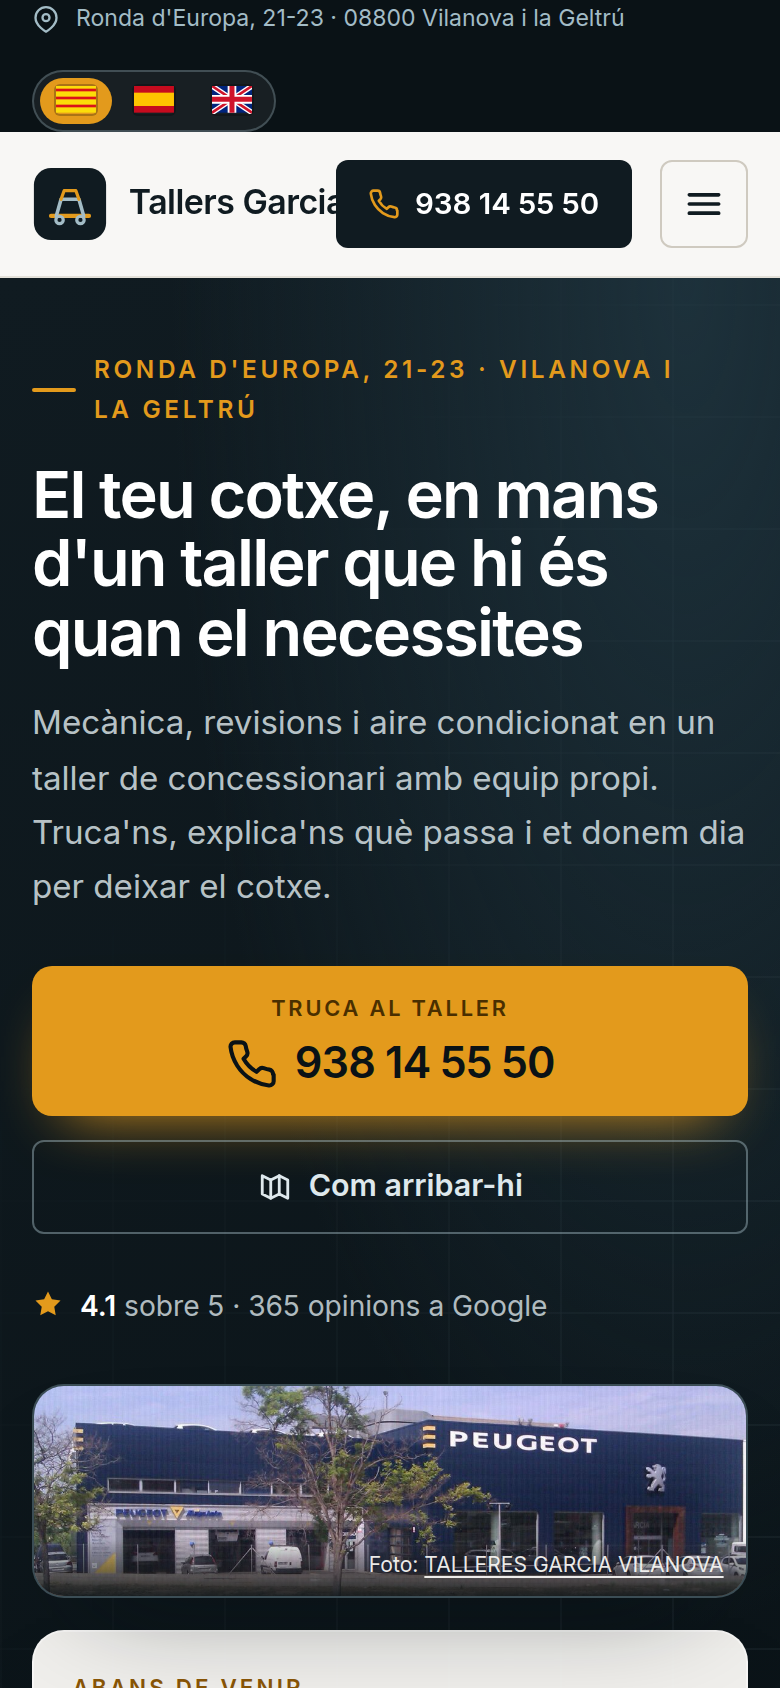
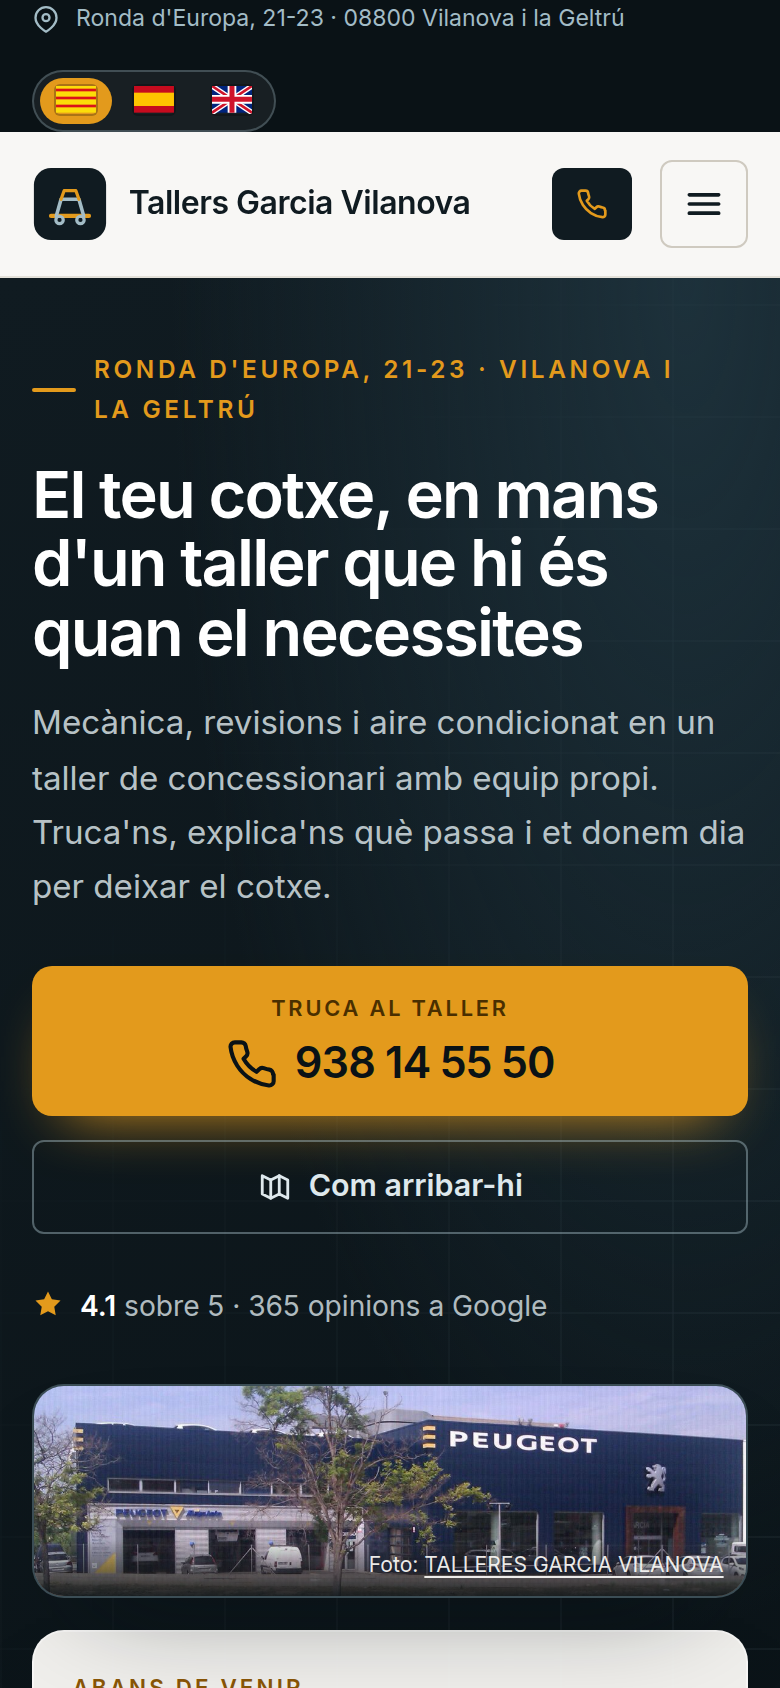
Do not track the node_modules symlink

Changed region(s): [[0.1846, 0.0924, 0.8, 0.154]]

diff --git a/assets/css/styles.css b/assets/css/styles.css
@@ -1099,7 +1099,7 @@ ul, ol { margin: 0; padding: 0; list-style: none; }
 /* ==========================================================================
    Responsive
    ========================================================================== */
-@media (max-width: 1024px) {
+@media (max-width: 1040px) {
   .hero__inner { grid-template-columns: 1fr; padding-block: clamp(2.25rem, 5vw, 3.5rem); }
   .hero__aside { flex-direction: column; }
   .about__grid,
@@ -1107,7 +1107,7 @@ ul, ol { margin: 0; padding: 0; list-style: none; }
   .footer__grid { grid-template-columns: repeat(2, minmax(0, 1fr)); }
 }
 
-@media (max-width: 860px) {
+@media (max-width: 1040px) {
   .nav {
     position: fixed;
     inset: 4.5rem 0 auto;
@@ -1137,16 +1137,13 @@ ul, ol { margin: 0; padding: 0; list-style: none; }
   .langs__flag { width: 20px; height: 14px; }
 }
 
-@media (min-width: 861px) and (max-width: 1000px) {
-  .brand__name { font-size: .98rem; }
-  .nav__link { padding: .45rem .5rem; font-size: .86rem; }
-  .header__call span { display: none; }
-  .header__call { padding: .6rem .7rem; }
-  .langs__code { display: none; }
-}
-
 @media (max-width: 640px) {
   body { font-size: 1rem; }
+  /* the number no longer fits beside the brand: icon stays, the accessible name
+     and the hero's large call button carry the rest */
+  .header__call span { display: none; }
+  .header__call { padding: .62rem .74rem; }
+  .brand__name { font-size: 1rem; }
   .topbar__note { font-size: .72rem; }
   .hero__call { flex-direction: column; align-items: stretch; }
   .hero__phone { align-items: center; text-align: center; }

diff --git a/src/template.html b/src/template.html
@@ -134,7 +134,7 @@
         <li><a class="nav__link" href="#contacte">{{t.nav.contact}}</a></li>
       </ul>
     </nav>
-    <a class="header__call" href="tel:{{business.phoneE164}}">
+    <a class="header__call" href="tel:{{business.phoneE164}}" aria-label="{{t.contact.callCta}}: {{business.phoneNational}}">
       <svg viewBox="0 0 24 24" width="16" height="16" fill="none" stroke="currentColor" stroke-width="2" stroke-linecap="round" stroke-linejoin="round" aria-hidden="true"><path d="M22 16.9v3a2 2 0 0 1-2.2 2 19.8 19.8 0 0 1-8.6-3.1 19.5 19.5 0 0 1-6-6A19.8 19.8 0 0 1 2.1 4.2 2 2 0 0 1 4.1 2h3a2 2 0 0 1 2 1.7c.1.9.4 1.8.7 2.6a2 2 0 0 1-.5 2.1L8.1 9.6a16 16 0 0 0 6 6l1.2-1.2a2 2 0 0 1 2.1-.5c.8.3 1.7.6 2.6.7a2 2 0 0 1 1.7 2.1Z"/></svg>
       <span>{{business.phoneNational}}</span>
     </a>

diff --git a/en/index.html b/en/index.html
@@ -182,7 +182,7 @@
         <li><a class="nav__link" href="#contacte">Contact</a></li>
       </ul>
     </nav>
-    <a class="header__call" href="tel:+34938145550">
+    <a class="header__call" href="tel:+34938145550" aria-label="Call the workshop: 938 14 55 50">
       <svg viewBox="0 0 24 24" width="16" height="16" fill="none" stroke="currentColor" stroke-width="2" stroke-linecap="round" stroke-linejoin="round" aria-hidden="true"><path d="M22 16.9v3a2 2 0 0 1-2.2 2 19.8 19.8 0 0 1-8.6-3.1 19.5 19.5 0 0 1-6-6A19.8 19.8 0 0 1 2.1 4.2 2 2 0 0 1 4.1 2h3a2 2 0 0 1 2 1.7c.1.9.4 1.8.7 2.6a2 2 0 0 1-.5 2.1L8.1 9.6a16 16 0 0 0 6 6l1.2-1.2a2 2 0 0 1 2.1-.5c.8.3 1.7.6 2.6.7a2 2 0 0 1 1.7 2.1Z"/></svg>
       <span>938 14 55 50</span>
     </a>

diff --git a/es/index.html b/es/index.html
@@ -182,7 +182,7 @@
         <li><a class="nav__link" href="#contacte">Contacto</a></li>
       </ul>
     </nav>
-    <a class="header__call" href="tel:+34938145550">
+    <a class="header__call" href="tel:+34938145550" aria-label="Llamar al taller: 938 14 55 50">
       <svg viewBox="0 0 24 24" width="16" height="16" fill="none" stroke="currentColor" stroke-width="2" stroke-linecap="round" stroke-linejoin="round" aria-hidden="true"><path d="M22 16.9v3a2 2 0 0 1-2.2 2 19.8 19.8 0 0 1-8.6-3.1 19.5 19.5 0 0 1-6-6A19.8 19.8 0 0 1 2.1 4.2 2 2 0 0 1 4.1 2h3a2 2 0 0 1 2 1.7c.1.9.4 1.8.7 2.6a2 2 0 0 1-.5 2.1L8.1 9.6a16 16 0 0 0 6 6l1.2-1.2a2 2 0 0 1 2.1-.5c.8.3 1.7.6 2.6.7a2 2 0 0 1 1.7 2.1Z"/></svg>
       <span>938 14 55 50</span>
     </a>

diff --git a/index.html b/index.html
@@ -182,7 +182,7 @@
         <li><a class="nav__link" href="#contacte">Contacte</a></li>
       </ul>
     </nav>
-    <a class="header__call" href="tel:+34938145550">
+    <a class="header__call" href="tel:+34938145550" aria-label="Trucar al taller: 938 14 55 50">
       <svg viewBox="0 0 24 24" width="16" height="16" fill="none" stroke="currentColor" stroke-width="2" stroke-linecap="round" stroke-linejoin="round" aria-hidden="true"><path d="M22 16.9v3a2 2 0 0 1-2.2 2 19.8 19.8 0 0 1-8.6-3.1 19.5 19.5 0 0 1-6-6A19.8 19.8 0 0 1 2.1 4.2 2 2 0 0 1 4.1 2h3a2 2 0 0 1 2 1.7c.1.9.4 1.8.7 2.6a2 2 0 0 1-.5 2.1L8.1 9.6a16 16 0 0 0 6 6l1.2-1.2a2 2 0 0 1 2.1-.5c.8.3 1.7.6 2.6.7a2 2 0 0 1 1.7 2.1Z"/></svg>
       <span>938 14 55 50</span>
     </a>
